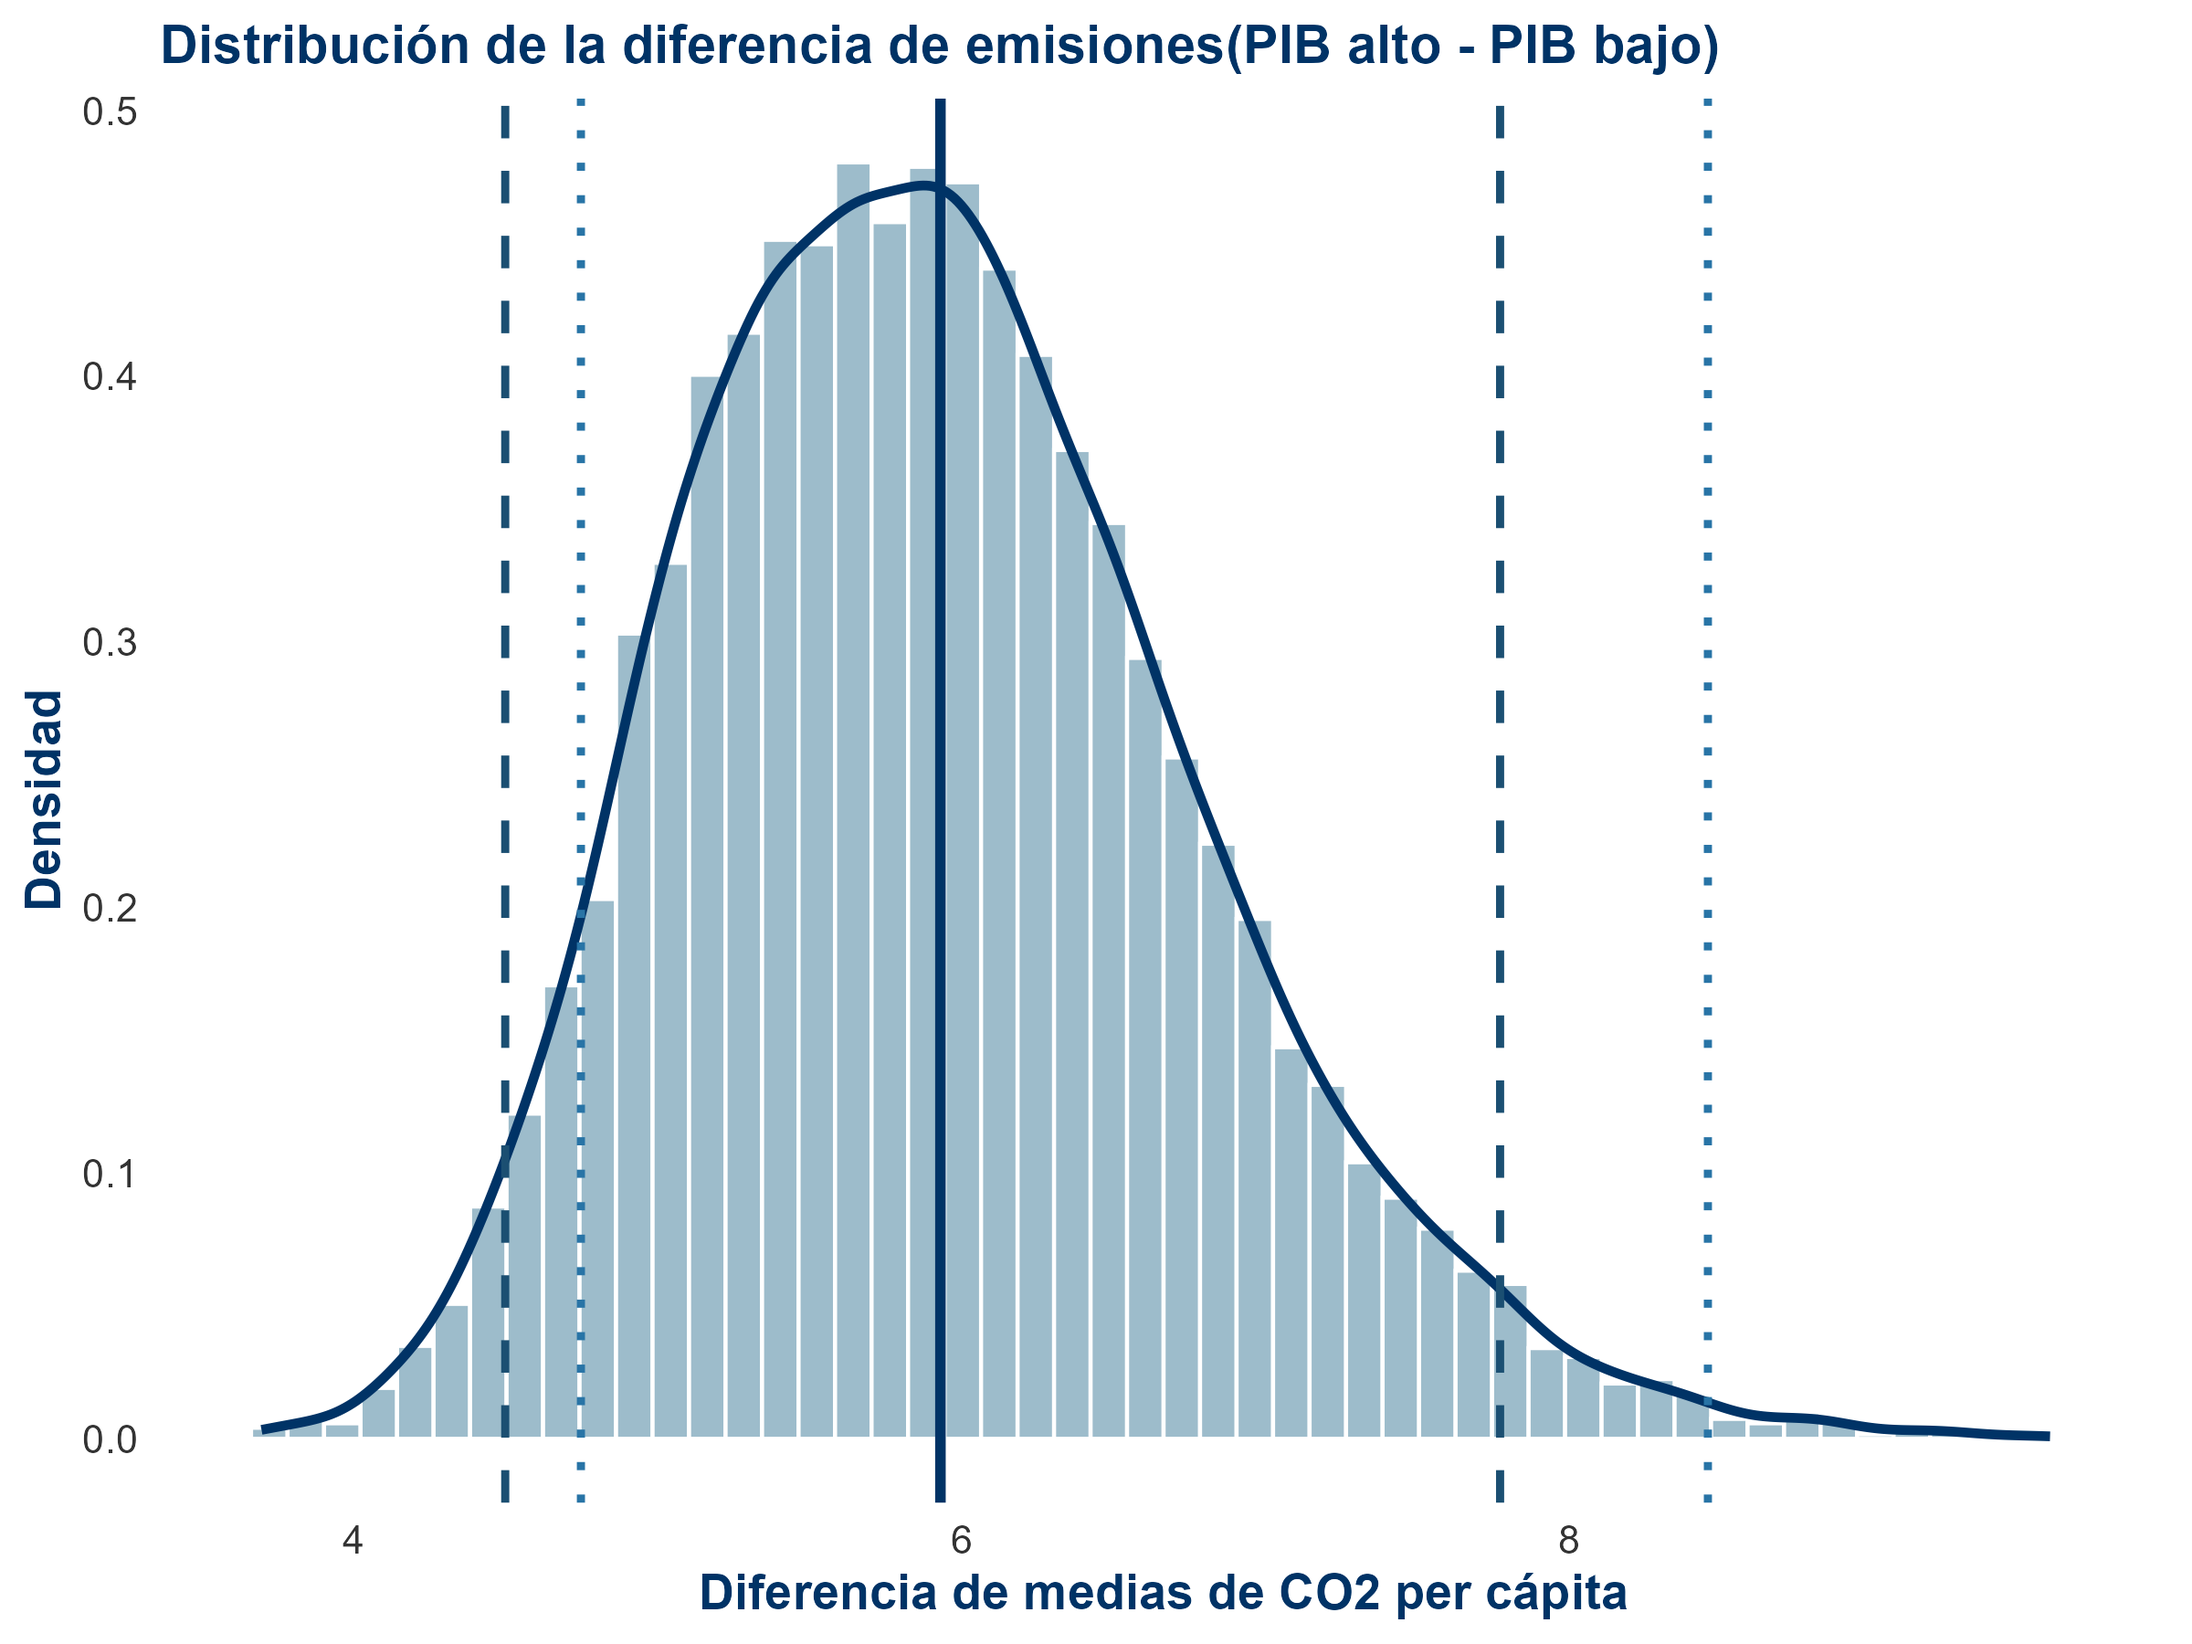
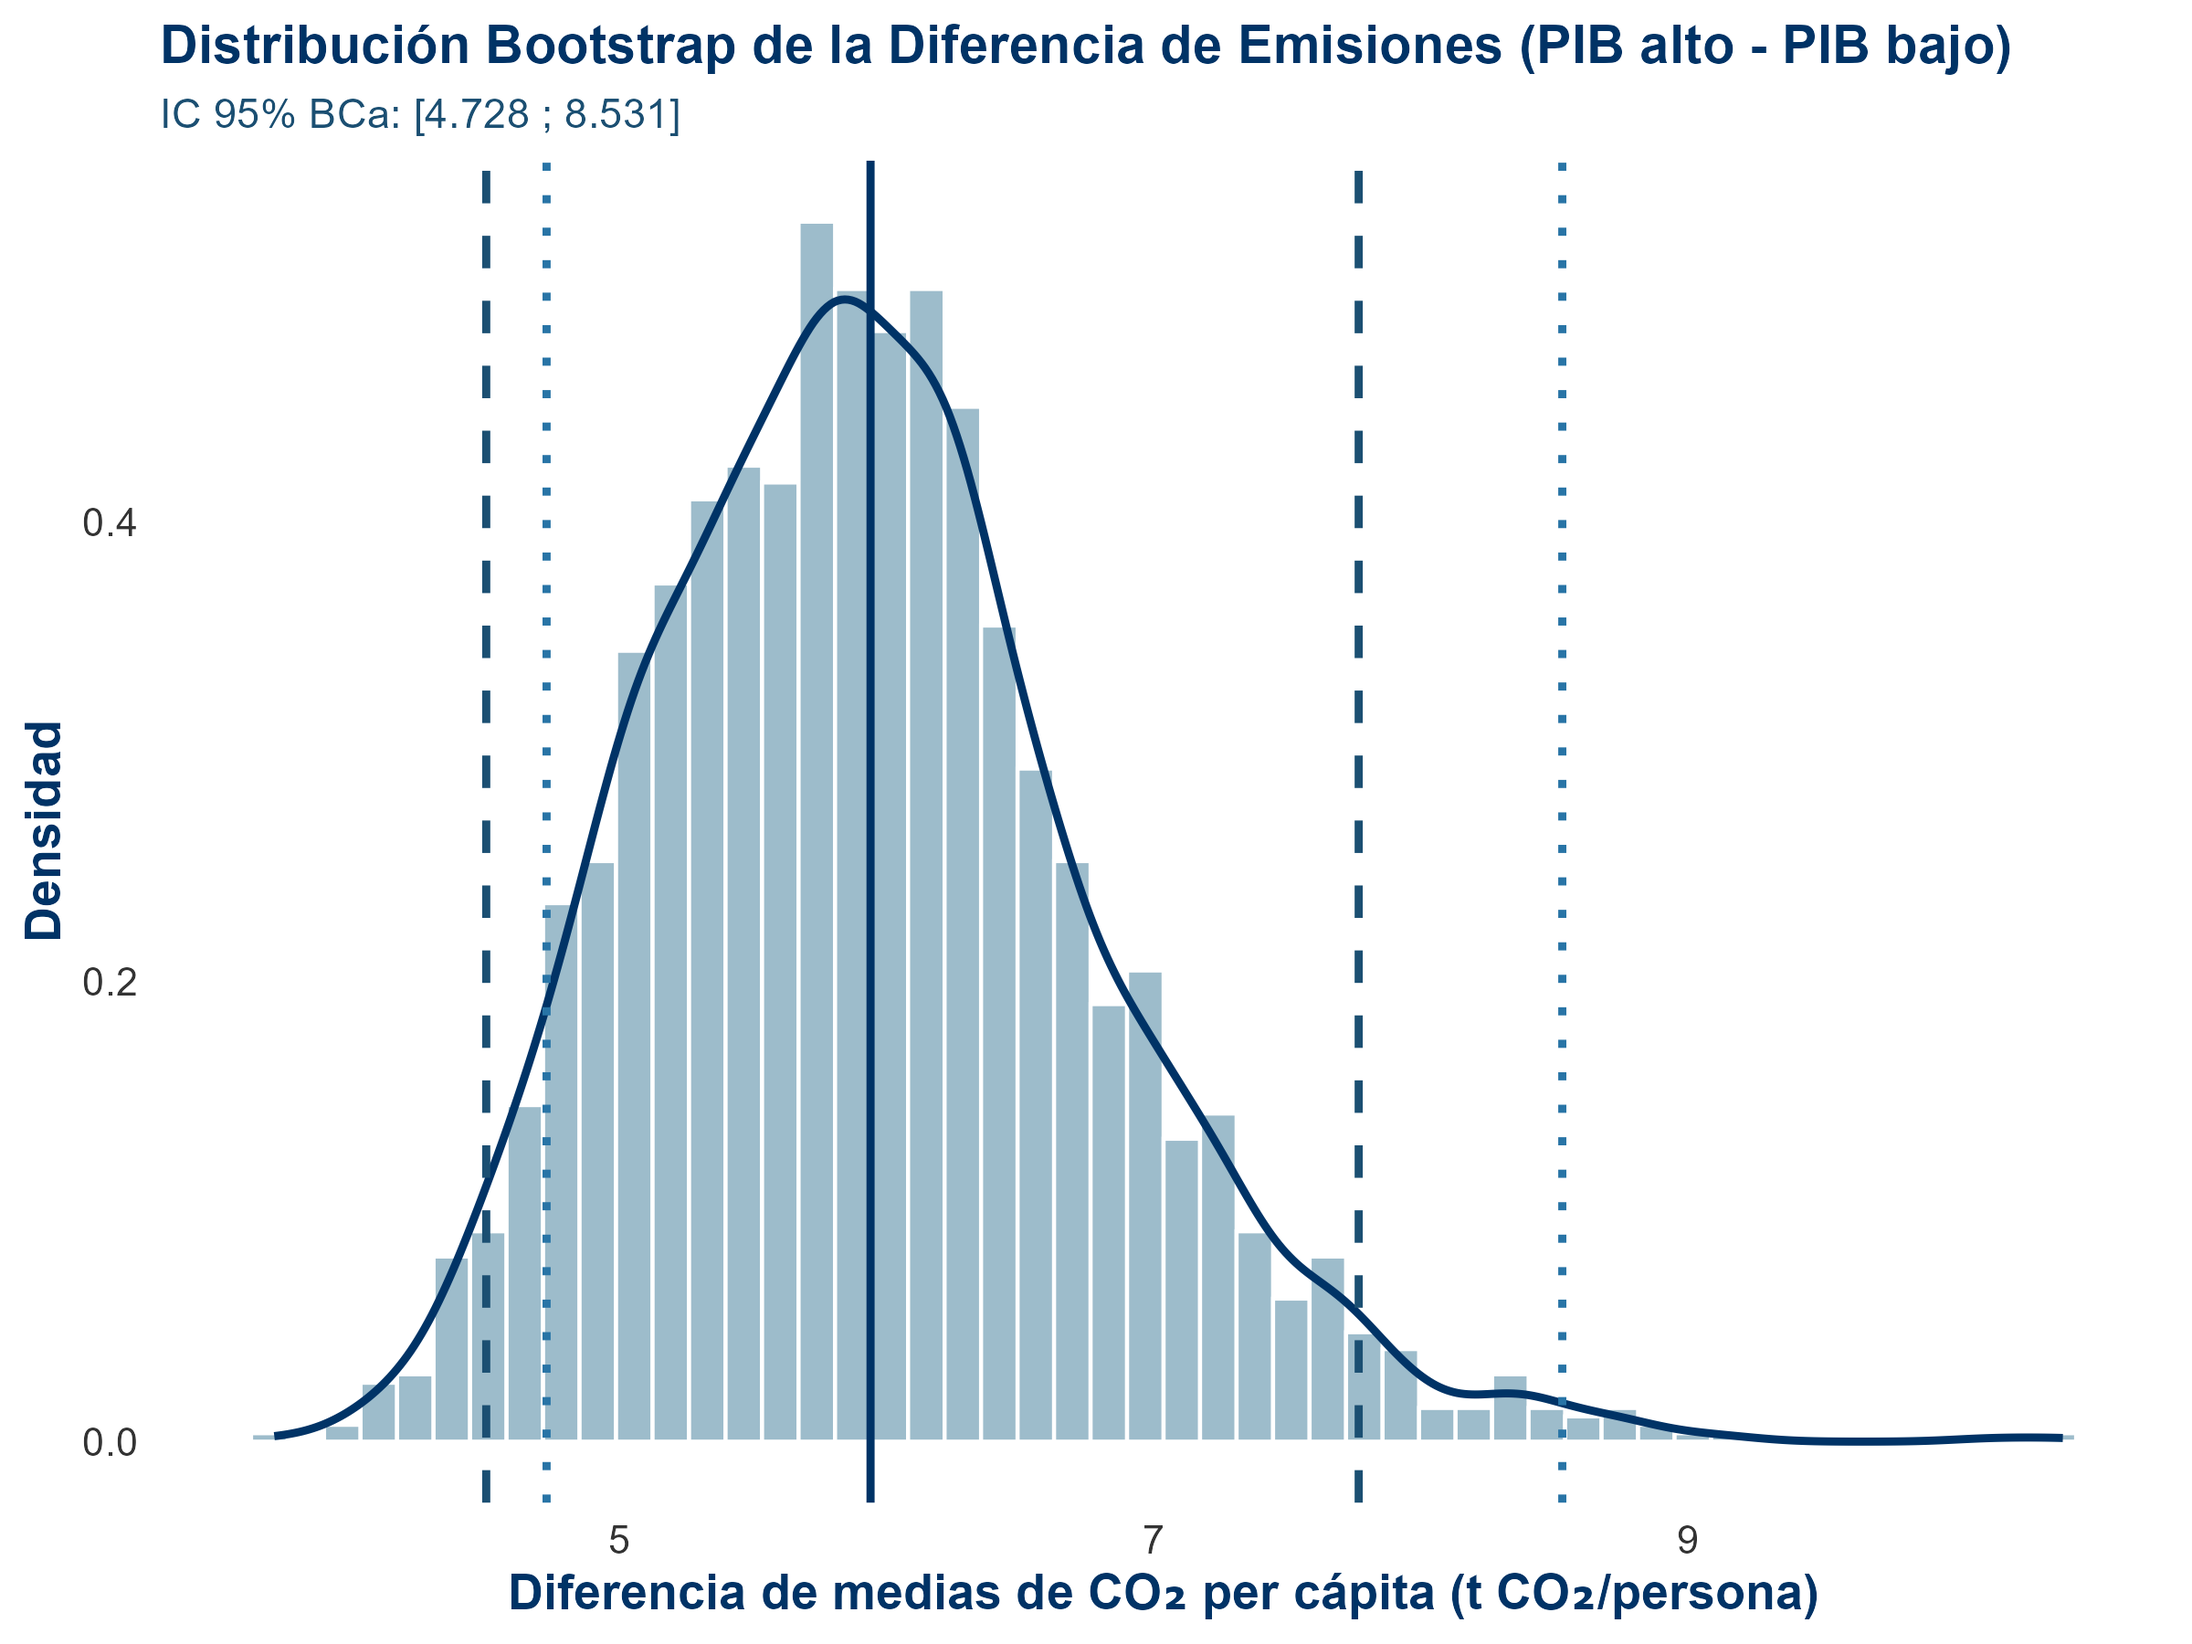
final

diff --git a/Graficos/tabla3_media_CO2_altos_y_bajos.html b/Graficos/tabla3_media_CO2_altos_y_bajos.html
@@ -281,39 +281,29 @@ border: 0;
 </head>
 <body>
 <table class=" lightable-classic" style="font-family: Times New Roman; width: auto !important; margin-left: auto; margin-right: auto;">
-<caption>Tabla 3. Estimación bootstrap de medias e intervalos de confianza por grupo de PIB (2023)</caption>
+<caption>Tabla 3. Diferencia Promedio de Emisiones de CO₂ per Cápita (t CO₂/persona)</caption>
  <thead>
   <tr>
-   <th style="text-align:left;"> grupo_pib </th>
-   <th style="text-align:center;"> n_paises </th>
-   <th style="text-align:left;"> mean_co2 </th>
-   <th style="text-align:center;"> boot_R </th>
-   <th style="text-align:left;"> ic95_low_bca </th>
-   <th style="text-align:center;"> ic95_high_bca </th>
-   <th style="text-align:left;"> ic95_low_perc </th>
-   <th style="text-align:center;"> ic95_high_perc </th>
+   <th style="text-align:left;"> Grupo de PIB </th>
+   <th style="text-align:center;"> Media de Emisiones </th>
+   <th style="text-align:center;"> N (Observaciones) </th>
   </tr>
  </thead>
 <tbody>
   <tr>
    <td style="text-align:left;"> Alto PIB per cápita </td>
+   <td style="text-align:center;"> 7.43 </td>
    <td style="text-align:center;"> 120 </td>
-   <td style="text-align:left;"> 7.435 </td>
-   <td style="text-align:center;"> 10000 </td>
-   <td style="text-align:left;"> 6.287 </td>
-   <td style="text-align:center;"> 9.862 </td>
-   <td style="text-align:left;"> 6.066 </td>
-   <td style="text-align:center;"> 9.198 </td>
   </tr>
   <tr>
    <td style="text-align:left;"> Bajo PIB per cápita </td>
+   <td style="text-align:center;"> 1.50 </td>
    <td style="text-align:center;"> 119 </td>
-   <td style="text-align:left;"> 1.496 </td>
-   <td style="text-align:center;"> 10000 </td>
-   <td style="text-align:left;"> 1.231 </td>
-   <td style="text-align:center;"> 1.852 </td>
-   <td style="text-align:left;"> 1.209 </td>
-   <td style="text-align:center;"> 1.806 </td>
+  </tr>
+  <tr>
+   <td style="text-align:left;"> Diferencia (Alto - Bajo) </td>
+   <td style="text-align:center;"> 5.94 </td>
+   <td style="text-align:center;"> NA </td>
   </tr>
 </tbody>
 </table>

diff --git a/Graficos/tabla4_ic_comparativa.html b/Graficos/tabla4_ic_comparativa.html
@@ -281,27 +281,27 @@ border: 0;
 </head>
 <body>
 <table class=" lightable-classic" style="font-family: Times New Roman; width: auto !important; margin-left: auto; margin-right: auto;">
-<caption>Comparación entre Bootstrap y prueba t para la diferencia de emisiones (t CO₂/persona)</caption>
+<caption>Comparación entre Bootstrap y Prueba T para la diferencia de emisiones (t CO₂/persona)</caption>
  <thead>
   <tr>
    <th style="text-align:left;"> Método </th>
    <th style="text-align:center;"> Estimación </th>
    <th style="text-align:center;"> IC_95 </th>
-   <th style="text-align:center;"> p_valor </th>
+   <th style="text-align:center;"> P_Valor </th>
   </tr>
  </thead>
 <tbody>
   <tr>
    <td style="text-align:left;"> Prueba t de Welch (95%) </td>
-   <td style="text-align:center;"> 5.93 </td>
-   <td style="text-align:center;"> 4.27 – 7.61 </td>
+   <td style="text-align:center;"> 5.939 </td>
+   <td style="text-align:center;"> [4.272 ; 7.606] </td>
    <td style="text-align:center;"> 0 </td>
   </tr>
   <tr>
    <td style="text-align:left;"> Bootstrap BCa (95%) </td>
-   <td style="text-align:center;"> 5.93 </td>
-   <td style="text-align:center;"> 4.75 – 8.46 </td>
-   <td style="text-align:center;"> No aplica </td>
+   <td style="text-align:center;"> 5.939 </td>
+   <td style="text-align:center;"> [4.728 ; 8.531] </td>
+   <td style="text-align:center;"> N/A </td>
   </tr>
 </tbody>
 </table>
